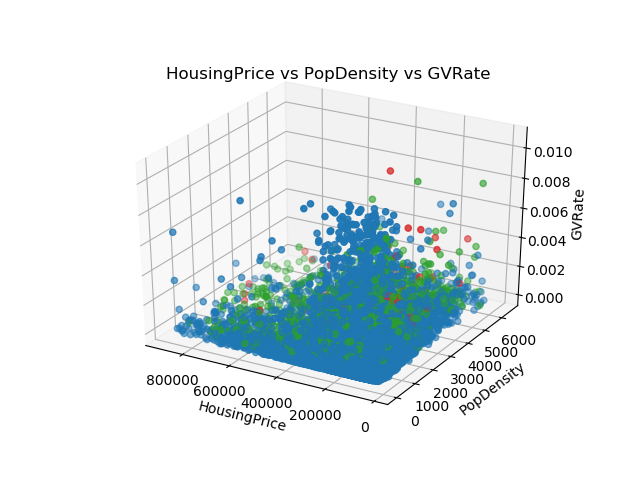
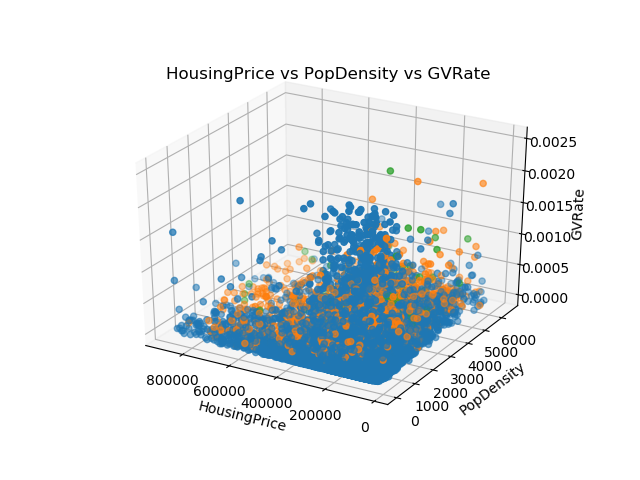
website

diff --git a/website/analysis_website/analysis.html b/website/analysis_website/analysis.html
@@ -29,14 +29,17 @@
     <p>Our goal is to predict housing and population vs. rate of gun violence using multiple regression. We used utilizing multiple regressionand/or a t-test between the rate of gunviolence and high vs. low housing prices. The specific attributes of the data we are looking at are the population, housing price, rate, location (city/county), time (year). To visualize our results, we implemented multiple 2D scatterplots, bar graphs, and a map display. </p>
 
     <p>
-      <b style="font-size: 20px;">Hypothesis</b><br> There is a statistical difference between Gun Violence rate (Number of Incidents/ Population) and the average housing price in an area (as an indication of wealth). <br><br>
+      <b style="font-size: 20px;">Hypothesis</b><br> There is a statistical difference between gun violence rate (number of gun violence incidents per capita) between areas with expensive housing and areas with inexpensive housing. Specifically, we expect areas with expensive housing to have lower rates of gun violence. We also hypothesize gun violence rate will increase with population density.
+      <br><br>
       <b style="font-size: 20px;">Our Five Analysis Aspects</b> <br>
+      * for reference, our data span from Jan 2014 to March 2018, GVRate = num_incidents/person/year, HomocideRate/Deadliness = num_killed/person
+      <br>
       1. Housing and Population vs Rate of Gun Violence - linear regression <br>
       2. T-test on rates of gun violence split among different high vs low housing prices <br>
       3. 3 axis scatter plots of: <br>
-      &emsp;&emsp;&emsp;Housing Price vs Population vs GVRate <br>
+      &emsp;&emsp;&emsp;Housing Price vs PopDensity vs GVRate <br>
       4. 2 axis scatter plots of: <br>
-      &emsp;&emsp;&emsp;Housing vs GV Rate <br>
+      &emsp;&emsp;&emsp;HousingPrice vs GV Rate <br>
       &emsp;&emsp;&emsp;PopDensity vs GV Rate <br>
       &emsp;&emsp;&emsp;Population vs GV Rate <br>
       5. Display data on a US Map <br>
@@ -47,15 +50,14 @@
       &emsp;&emsp;&emsp;NumInccidents <br>
       &emsp;&emsp;&emsp;PopDensity <br>
       &emsp;&emsp;&emsp;Population <br>
-      6. Bar graphs? 
     </p>
 
     <p>
       For our full results and graphs, please refer to the outputs of the github under analysis/output, add the graphs there or run the corresponding scripts to get more graphs. You can also take a look at kmeans; it essentially separates the data a little lol and adds some nice colors. :) <br>
       &emsp;&emsp;&emsp;2DScatter - contains the 2DScatter plots <br>
       &emsp;&emsp;&emsp;3DScatter - contains the 3DScatter plots <br>
-      &emsp;&emsp;&emsp;kmeans - not using but worth adding for questions? <br>
-      &emsp;&emsp;&emsp;maps - contains the maps
+      &emsp;&emsp;&emsp;kmeans - contains clustering of data (not using) <br>
+      &emsp;&emsp;&emsp;maps - contains the maps of U.S.
     </p>
 
   </section>
@@ -67,10 +69,23 @@
     <!-- <h2 class="pageSubTitle">lee-lee-ho-ho</h2> -->
   </header>
   <section>
-    <p>We chose to use single and multiple regression to analyze the influence of population density and housing price on gun violence rates. Linear regression is a great tool for this task because it allows us to quantify how well our independent variables can explain the variation in the dependent variable through the r-squared value, and it also gives us insight into the nature of the relationship between each independent variable and the dependent variable through the coefficients of each term in the regression.  Through regression, we are also able to see expected gun violence rates for values of the housing price and population density that weren’t in our dataset. </p>
+    <p>We chose to use single and multiple regression to analyze the influence of population density and housing price on gun violence rates. Linear regression is a great tool for this task because it allows us to quantify how well our independent variables can explain the variation in the dependent variable through the r-squared value, and it also gives us insight into the nature of the relationship between each independent variable and the dependent variable through the coefficients of each term in the regression. Through regression, we are also able to see expected gun violence rates for values of the housing price and population density that weren’t in our dataset. </p>
+
+    <p>We did run into a few challenges during the linear regression. First, the outliers and different scales of our explanatory variables made it difficult to compare the effect that each of them had on the gun violence rate. To mitigate this, we dropped all of the data points that had values more than 3 standard deviations away from the mean for any of the explanatory variables. Then, in order to better interpret the coefficients of the explanatory variables, we normalized the values for each variable to be from 0 to 1. We found multiple regression to be quite successful, as it quantified the explanatory power of population density and housing price and it demonstrated the effect that they had on gun violence rates. 
+    </p>
 
     <p>Our data did not have protected attributes that could have affected our model. A protected attribute, under federal law, is legally protected from discrimination to prevent adverse action. This includes protected attributes such as race, gender, age, religion, sexual orientation, and socioeconomic status. While housing prices and population are potentially correlated with many protected attributes, neither contain any of these attributes.</p> 
 
+    <p>The results of our regression support our hypothesis that gun violence rates increase as housing prices go up. However, housing price was not a particularly strong indicator of gun violence rate. When we ran regression on all the cities that we had data for, using just housing price as an explanatory variable, we got an r-squared value of 0.046. In terms of the coefficient, we got a value of -8e-10 which suggests that the gun violence rate goes down by 8.0e-10 gun violence incidents per capita per year for every dollar that they average housing price goes up. This may not seem like a lot, but average housing prices varied on the order of hundreds of thousands of dollars. We also tried using the logarithm of the housing price and got a slightly higher r-squared value (0.054) which suggests that the relationship between these two variables may be more logarithmic than linear. 
+    </p>
+    <p>Regression using population density to explain gun violence rates did not support our hypothesis that gun violence rates would increase with population density. We found that with an r-squared value of 0.056, the gun violence rate goes down by 8.1e-08 incidents of gun violence per capita per year for every 1 person per square mile that the population density increases. However, when we only included cities of more than 10,000 people, the slope of the regression approached zero. Then, when we only included cities of more than 100,000 people, the slope of the regression actually became positive. The results of these three regressions indicate that gun violence rates tend to be higher in small rural areas than in large cities, but if you are only looking at large cities, the more densely packed ones tend to have a higher rate of gun violence.</p>
+    <p>We are fairly confident that the results of our regression are correct, and they align with our own understanding of our environment. </p>
+    <img src="images/regression/GVRate_HousingPrice_pop0_gvi0_z3.png" style="max-width:80%; max-height:80%; justify-content:center;">
+    <img src="images/regression/GVRate_PopDensity_pop0_gvi0_z3.png" style="max-width:80%; max-height:80%; justify-content:center;">
+    Multiple Regression Using All Cities
+    <img src="images/regression/GVRate_PopDensity_HousingPrice_pop0_gvi0_z3.png" style="max-width:80%; max-height:80%; justify-content:center;">
+    Multiple Regression Using Cities with Population > 100,000
+    <img src="images/regression/GVRate_PopDensity_HousingPrice_pop100000_gvi0_z3.png" style="max-width:80%; max-height:80%; justify-content:center;">
   </section>
 </article>
 
@@ -80,10 +95,14 @@
     <!-- <h2 class="pageSubTitle"></h2> -->
   </header>
   <section>
-    <p>We chose to run a t-test because...</p>
+    <p>We decided to conduct T-tests to discern whether the data showed statistically significant differences in gun violence rates between low v.s. high home prices and low v.s. high population densities.In both cases, our two hypotheses take the form H0 for our null hypothesis and HA for our alternative hypothesis, and we set a significance value (ɑ) of 0.05. Our first t-test tests if there is a statistical difference in gun violence rates (number of gun violence incidents per person per year) between towns/cities with average housing prices under $300k and those with average housing prices over $300k. Our second t-test tests if there is a statistical difference in gun violence rates between town/cities with average population densities under 3,000 people per square mile and those with average population densities over 3,000 people per square mile. With both tests, we rejected the null hypotheses and accepted the null hypotheses. Thus, our t-tests have led us to believe that there are statistical differences in gun violence rate both between lower and higher housing prices in US cities, and between lower and higher population densities in US cities.
+    </p>
     
     <p>Some potential confounding variables we noticed were crime rates, gun availability, number of licenses, unemployment, age, gender, education, drug use, urbanization, ethnicity, strength of gun laws, family size, personality/behavior. Although numerous studies have shown these variables are implicitly correlated with socioeconomic status and therefore housing prices, we did not specifically take these into account when making predictions. 
     </p>
+
+    <p>In t-tests cases, we rejected the null hypotheses and accepted the alternative hypotheses. That is, our t-tests lead us to believe that there are statistical differences in gun violence rate both between lower and higher housing prices in US cities, and between lower and higher population densities in US cities. The extremity of our test statistics (16.6 and 17.1, when the upper critical value was around 1.96) was initially shocking, but after examining the strong relationship on full display in each of our 2D and 3D scatter plots that compare gun violence rates to housing prices and population densities for US cities, respectively, we decided that these t-test results seemed reasonable.
+      </p>
   </section>
 </article>
 
@@ -103,10 +122,9 @@
       Since there were a few outliers, we chose to just display points within 3 stddev from the center so we don’t end up with a large graph where the majority of the points were in one corner 
       There are also a lot of data points so maybe we should consider grouping the data somehow and maybe aggregating the points in some way<br><br>
       <b>Additional Explanation</b> <br>
-      The labels and titles should be fairly self-explanatory.
+      The labels and titles should be fairly self-explanatory. 
     </p>
-    <img src="images/3DScatter/3DScatter_HousingPrice%20over%20PopulationDensity_PopDensity_GVRate.png" style="max-width:80%; max-height:80%; justify-content:center;">
-    <img src="images/3DScatter/3DScatter_HousingPrice_Population_GVRate.png" style="max-width:80%; max-height:80%; justify-content:center;">
+    <img src="images/3DScatter/3DScatter_HousingPrice_PopDensity_GVRate.png" style="max-width:80%; max-height:80%; justify-content:center;">
   </section>
 </article>
 
@@ -128,10 +146,10 @@
       The labels and titles should be fairly self-explanatory 
     </p>
     <img src="images/2DScatter/2DScatter_HousingPrice_GVRate.png" style="max-width:80%; max-height:80%; justify-content:center;">
-    <img src="images/2DScatter/2DScatter_HousingPrice%20over%20PopulationDensity_GVRate.png" style="max-width:80%; max-height:80%; justify-content:center;">
     <img src="images/2DScatter/2DScatter_PopDensity_GVRate.png" style="max-width:80%; max-height:80%; justify-content:center;">
     <img src="images/2DScatter/2DScatter_Population_GVRate.png" style="max-width:80%; max-height:80%; justify-content:center;">
-
+    
+  
   </section>
 </article>
 
@@ -163,30 +181,17 @@
 
 <article class="wrapper">
   <header>
-    <h1 class="pageTitle">Bar Graphs</h1>
-    <!-- <h2 class="pageSubTitle"></h2> -->
-  </header>
-  <section>
-    <p>
-      <b>Why</b> <br>
-      sdf <br><br>
-      <b>Alternatives</b>  <br>
-      sdf <br><br>
-      <b>Challenges</b>  <br>
-      sdf <br><br>
-      <b>Additional Explanation</b>  <br>
-      The labels and titles should be fairly self-explanatory. <br>
-    </p>
-  </section>
-</article>
-
-<article class="wrapper">
-  <header>
     <h1 class="pageTitle">Conclusion & Ethical Considerations</h1>
     <!-- <h2 class="pageSubTitle"></h2> -->
   </header>
   <section>
-    <p> Throughout the final project process, you will be expected to think critically and write about where your data is coming from, how you're analyzing and visualizing your data, and potential positive or negative consequences of your results.</p>
+    <p> Our data came from the GVA (Gun Violence Archive), a non profit database of every gun violence incident in the United States since 2013. It does not have any affiliation with advocacy organizations nor is an advocacy group, and its primary purpose is simply to accurately document and provide unbiased, unfiltered information to the public. <br> Because our data included no protected attributes, such as gender, age, race, socioeconomic status, and religion, our model and t-test should not include any bias, and our visualizations should simply reflect raw data and their correlations.
+
+    <br> The positive consequences of our results is that these newfound correlations can be used to confirm pre-existing relationships between different variables associated with gun violence, and hopefully we can use this analysis to predict and prevent future gun violence.
+
+    <br>Some negative consequences of our analysis are if people start treating the model as a reliable prediction of gun violence, which might drive away home owners from high probability gun violence areas. Furthermore, as this is a very sensitive and communal topic, we must be aware this algorithm may not consider all social and political aspects of the issue, either because the data is not sufficient enough or being used optimally. This may cause the algorithm to find certain correlations between factors in the data that do not represent the reality, which in turn provides false information.
+
+    </p>
   </section>
 </article>
 
@@ -200,10 +205,10 @@
 body {
     font-family: 'Roboto', sans-serif;
     font-size: 14px;
-    letter-spacing: 0.075em;
-    line-height: 1.7em;
+    letter-spacing: 1px;
+    line-height: 1.6em;
     font-weight: 300;
-    color: #444;
+    color: #555;
 }
 
 p {
@@ -226,8 +231,37 @@ header {
     font-size: 2em;
     font-weight: 700;
     /* line-height: 0em; */
-    line-height: 1.15;
-    margin: 25px 0;
+    line-height: 2em;
+}
+
+.pageSubTitle {
+    color: #333;
+    margin-bottom: 1em;
+    font-size: 1.4em;
+    font-weight: 300;
+}
+
+.background {
+    background: 
+        url("https://www.american.edu/programs/shared/data-science/images/datascience-og.jpg")
+        repeat;
+    background-size: 100% auto;
+    position: fixed;
+    width: 100%;
+    height: 300%;
+    top: 0;
+    left: 0;
+    z-index: -1
+}
+
+.wrapper {
+    width: 520px;
+    padding: 40px;
+    margin: 20px auto;
+    background: #fff;
+    box-shadow:  0px 3px 3px 1px rgba(0, 0, 0, 0.25);
+}
+</style>
 }
 
 .pageSubTitle {

diff --git a/analysis/display_map.py b/analysis/display_map.py
@@ -124,11 +124,11 @@ def visualize_pts(data, feature_columns=["",""]):
         z=y, # Data to be color-coded
         locationmode = 'USA-states', # set of locations match entries in `locations`
         colorscale = 'Reds',
-        colorbar_title = "" + feature_columns[1],
+        colorbar_title = "Avg " + feature_columns[1],
     ))
 
     fig.update_layout(
-        title_text = "" + feature_columns[1] + " (Jan 2014 - Mar 2018)",
+        title_text = "Avg " + feature_columns[1] + " (Jan 2014 - Mar 2018)",
         geo_scope='usa', # limite map scope to USA
     )
 
@@ -157,9 +157,9 @@ if __name__ == '__main__':
     
     # add extra fields 
     raw_data['PopDensity'] = raw_data['Population'] / raw_data['TotalArea']
-    raw_data['GVRate'] = raw_data['NumIncidents'] / raw_data['Population']
+    raw_data['GVRate'] = raw_data['NumIncidents'] / raw_data['Population'] / 4.25 
     
    
-    feature_columns = ["State","PopDensity"]
+    feature_columns = ["State","GVRate"]
     data = read_data(raw_data, feature_columns)
     visualize_pts(data, feature_columns=feature_columns)

diff --git a/analysis/2Dplot.py b/analysis/2Dplot.py
@@ -77,7 +77,7 @@ def visualize_pts(data, feature_columns=["","",""]):
 
     # add title
     plt.title(feature_columns[0] + " vs " + feature_columns[1] )
-    plt.ylim(bottom=0, top=0.0125)
+    plt.ylim(bottom=0, top=0.003)
     plt.savefig("output/2DScatter" + plot_name + ".png")
     plt.show()
 
@@ -98,11 +98,11 @@ if __name__ == '__main__':
     # raw_data = raw_data.loc[raw_data['NumIncidents']>10]
 
     # add extra fields 
-    raw_data['GVRate'] = raw_data['NumIncidents'] / raw_data['Population']
+    raw_data['GVRate'] = raw_data['NumIncidents'] / raw_data['Population'] / 4.25
     raw_data['HousingPrice over PopulationDensity'] = raw_data['HousingPrice'] / raw_data['PopDensity']
     raw_data['WaterPercent'] = raw_data['TotalArea'] - raw_data['LandArea'] / raw_data['TotalArea']
     
 
-    feature_columns = ['PopDensity', "GVRate"]
+    feature_columns = ['Population', "GVRate"]
     data = read_data(raw_data, feature_columns)
     visualize_pts(data, feature_columns=feature_columns)

diff --git a/analysis/3Dplot.py b/analysis/3Dplot.py
@@ -74,9 +74,9 @@ def visualize_pts(data, feature_columns=["","",""], additional_data=None):
                 #print("red")
                 colors_s.append(cmap(0/MAX_VAL))
             elif d > 10000 and d < 100000:
-                colors_s.append(cmap(2/MAX_VAL))
+                colors_s.append(cmap(1/MAX_VAL))
             else:
-                colors_s.append(cmap(3/MAX_VAL))
+                colors_s.append(cmap(2/MAX_VAL))
 
     
     ax.scatter(x, y, z, c=colors_s)
@@ -113,7 +113,7 @@ if __name__ == '__main__':
     # raw_data = raw_data.loc[raw_data['NumIncidents']>10]
 
     # add extra fields 
-    raw_data['GVRate'] = raw_data['NumIncidents'] / raw_data['Population']
+    raw_data['GVRate'] = raw_data['NumIncidents'] / raw_data['Population'] /4.25
     raw_data['HousingPrice over PopulationDensity'] = raw_data['HousingPrice'] / raw_data['PopDensity']
     raw_data['WaterPercent'] = raw_data['TotalArea'] - raw_data['LandArea'] / raw_data['TotalArea']
     
